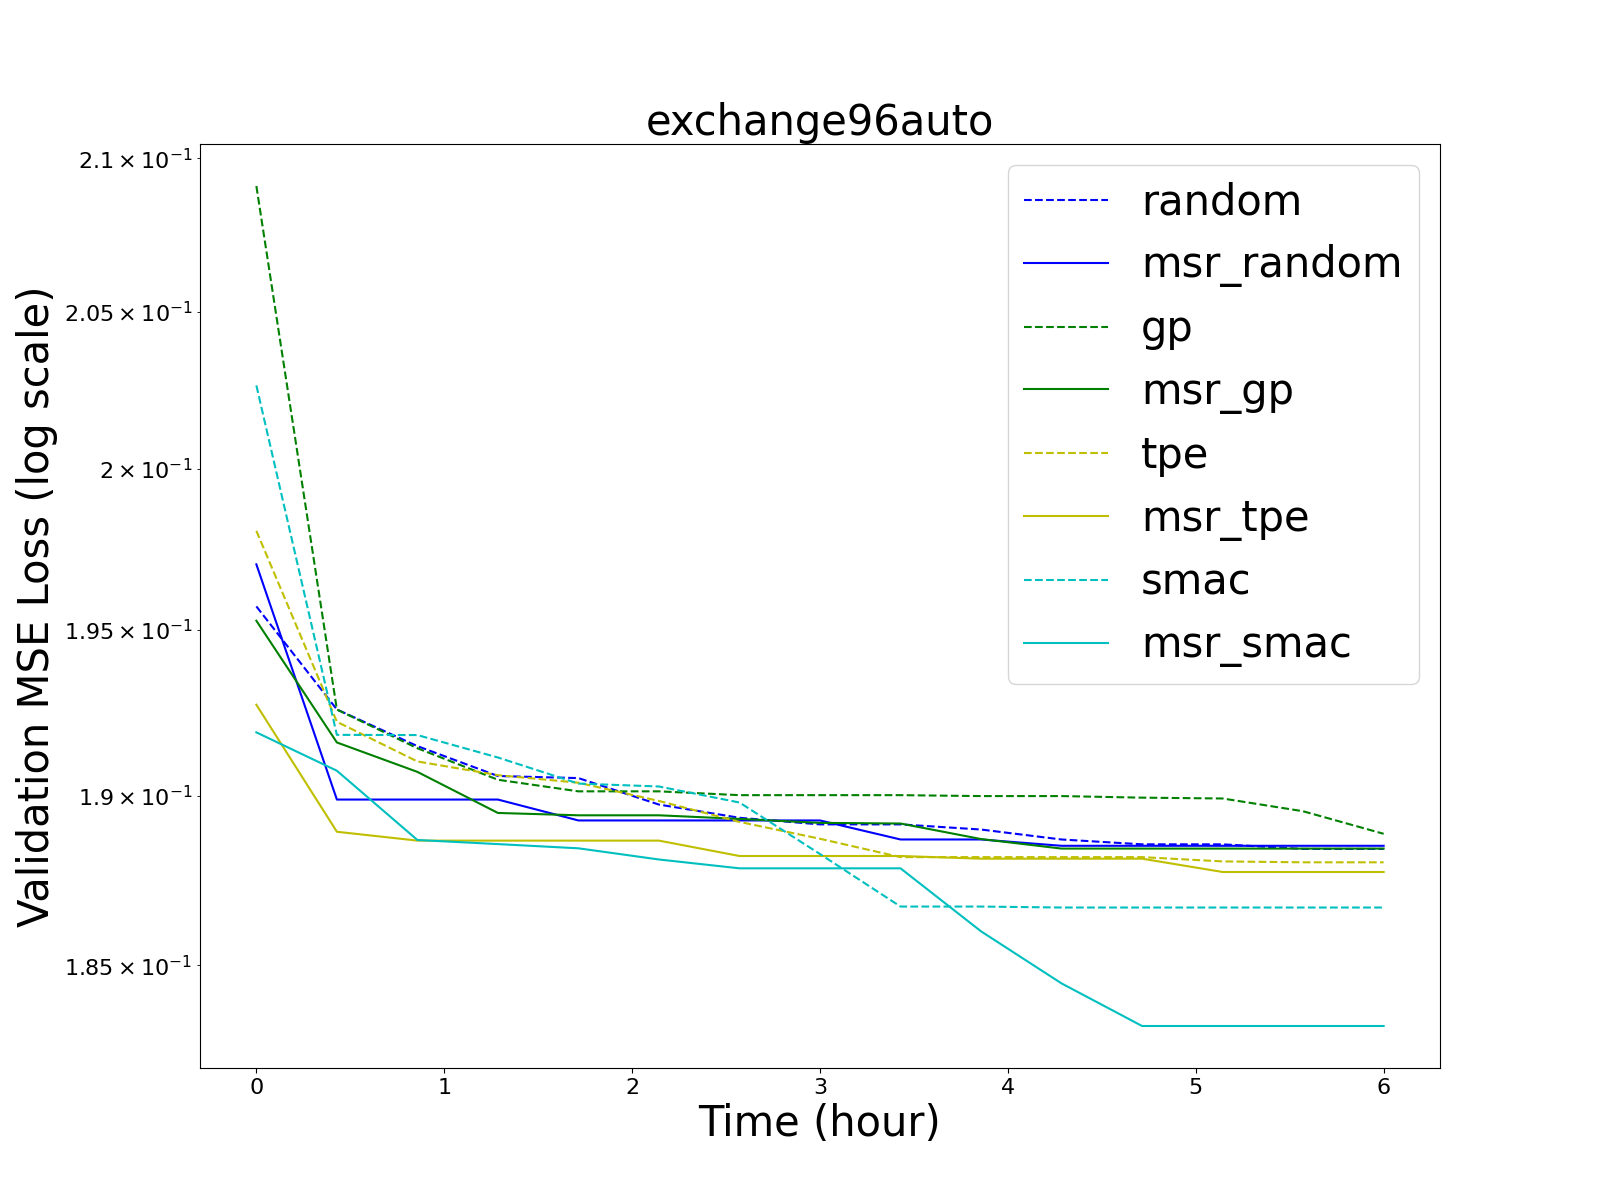
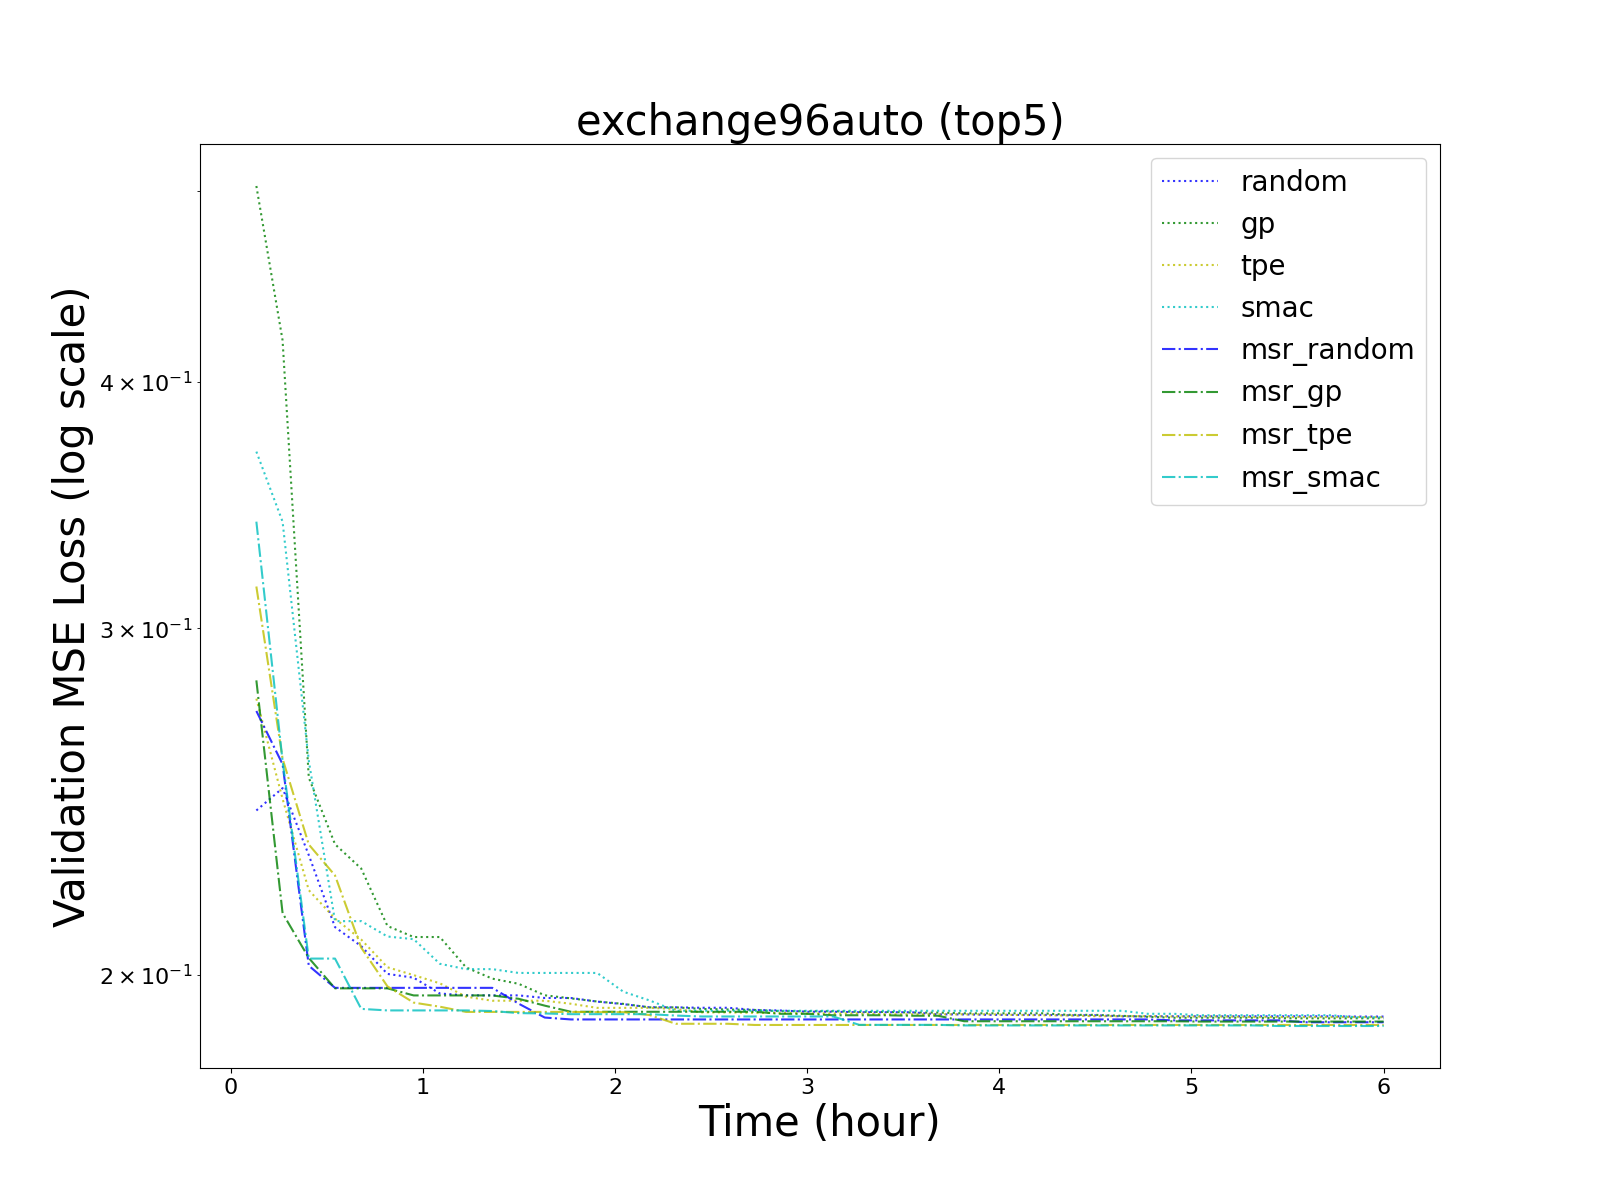
readme fig / time fig

diff --git a/tools/_graph.py b/tools/_graph.py
@@ -1058,7 +1058,7 @@ def plot_time():
     # label_lst = ["random", "random_lce", "gp", "gp_lce", "tpe", "tpe_lce", "smac", "smac_lce"]  # 1 -> n
     # label_lst = ["random", "random_msr", "gp", "gp_msr", "tpe", "tpe_msr","smac","smac_msr"]  # 1 -> n
 
-    scene_name_list = ["cifar10cnn"]  # ["cifar10cnn", "cifar10lstm", "exchange96auto", "traffic96trans"]
+    scene_name_list = ["cifar10cnn", "cifar10lstm", "exchange96auto", "traffic96trans"] # ["cifar10cnn"]
     hpo_name_lst = ["random", "gp", "tpe", "smac"]
     hpo_prefix = ["", "lce_", "msr_", "our_"]
     color_dict = {"random": "b", "gp": "g", "tpe": "y", "smac": "c"}
@@ -1158,5 +1158,5 @@ if __name__ == '__main__':
 
     # plot_rank()
 
-    # plot_time()
-    plot_phenomenon()
+    plot_time()
+    # plot_phenomenon()

diff --git a/README.md b/README.md
@@ -1,10 +1,11 @@
 # new
 ### 核心代码在new_package文件夹里
 
-### early
-![image](https://github.com/cennn/atdd/blob/master/tools/figs/early/absolute_gradient_value.png)
-![image](https://github.com/cennn/atdd/blob/master/tools/figs/early/active_layer_ratio.png)
-![image](https://github.com/cennn/atdd/blob/master/tools/figs/early/train_loss.png)
+### time/top3
+![image](https://github.com/cennn/atdd/blob/master/tools/figs/time/top3/cifar10cnn.png)
+![image](https://github.com/cennn/atdd/blob/master/tools/figs/time/top3/cifar10lstm.png)
+![image](https://github.com/cennn/atdd/blob/master/tools/figs/time/top3/exchange96auto.png)
+![image](https://github.com/cennn/atdd/blob/master/tools/figs/time/top3/traffic96trans.png)
 
 ### epoch
 ![image](https://github.com/cennn/atdd/blob/master/tools/figs/epoch/cifar10cnn.png)
@@ -41,5 +42,10 @@
 ![image](https://github.com/cennn/atdd/blob/master/tools/figs/_distribution_rule/cifar10lstm.png)
 ![image](https://github.com/cennn/atdd/blob/master/tools/figs/_distribution_rule/exchange96auto.png)
 ![image](https://github.com/cennn/atdd/blob/master/tools/figs/_distribution_rule/traffic96trans.png)
+
+### early
+![image](https://github.com/cennn/atdd/blob/master/tools/figs/early/absolute_gradient_value.png)
+![image](https://github.com/cennn/atdd/blob/master/tools/figs/early/active_layer_ratio.png)
+![image](https://github.com/cennn/atdd/blob/master/tools/figs/early/train_loss.png)
 
 
